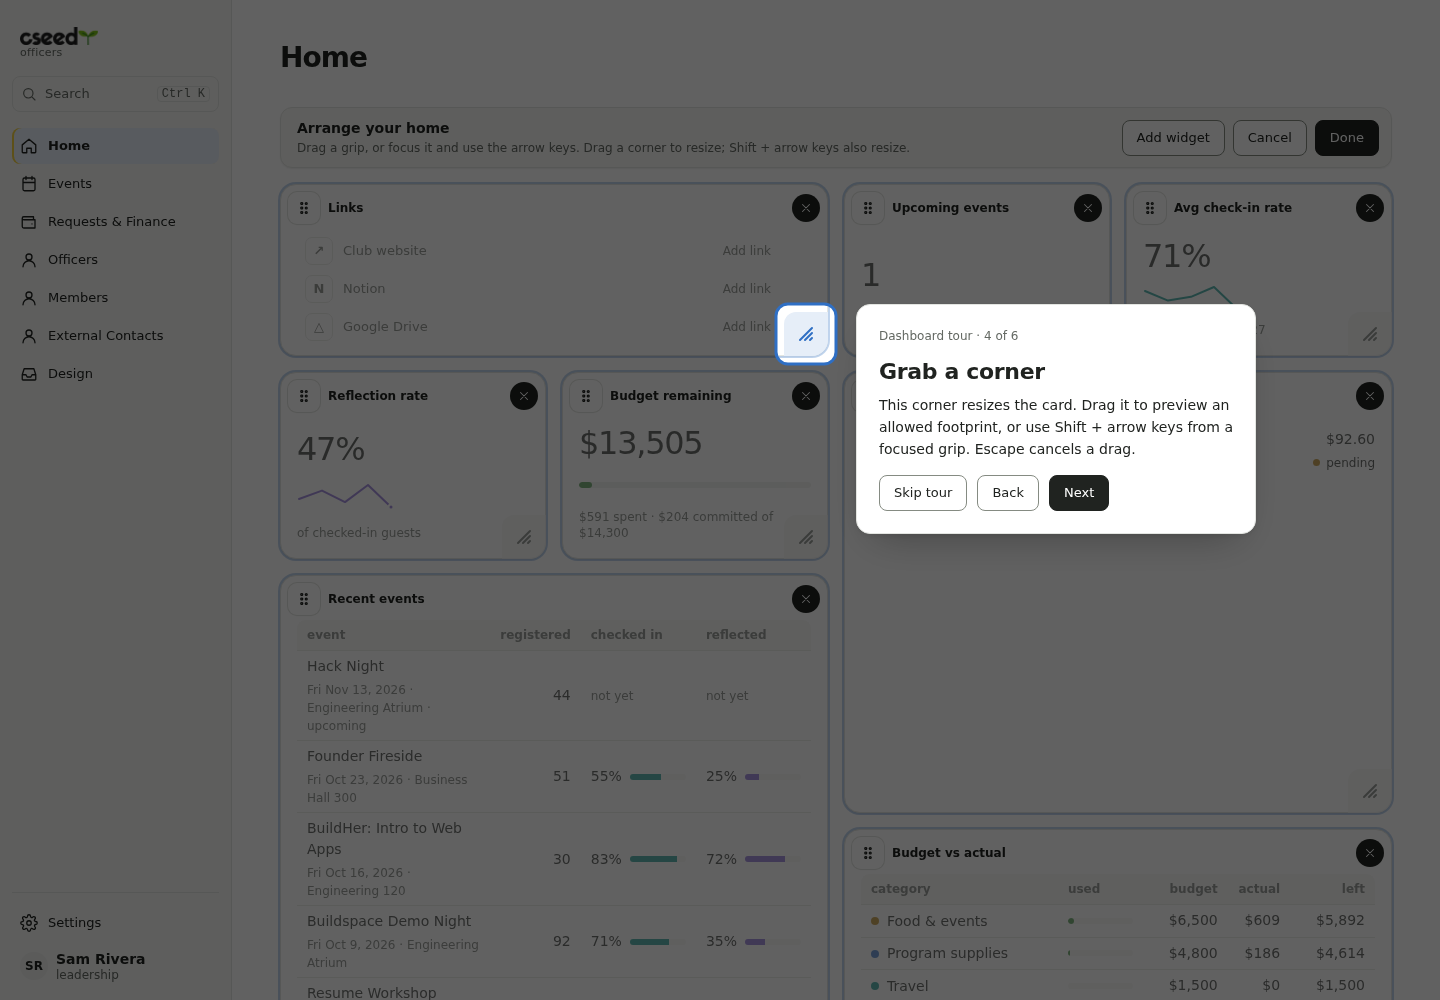
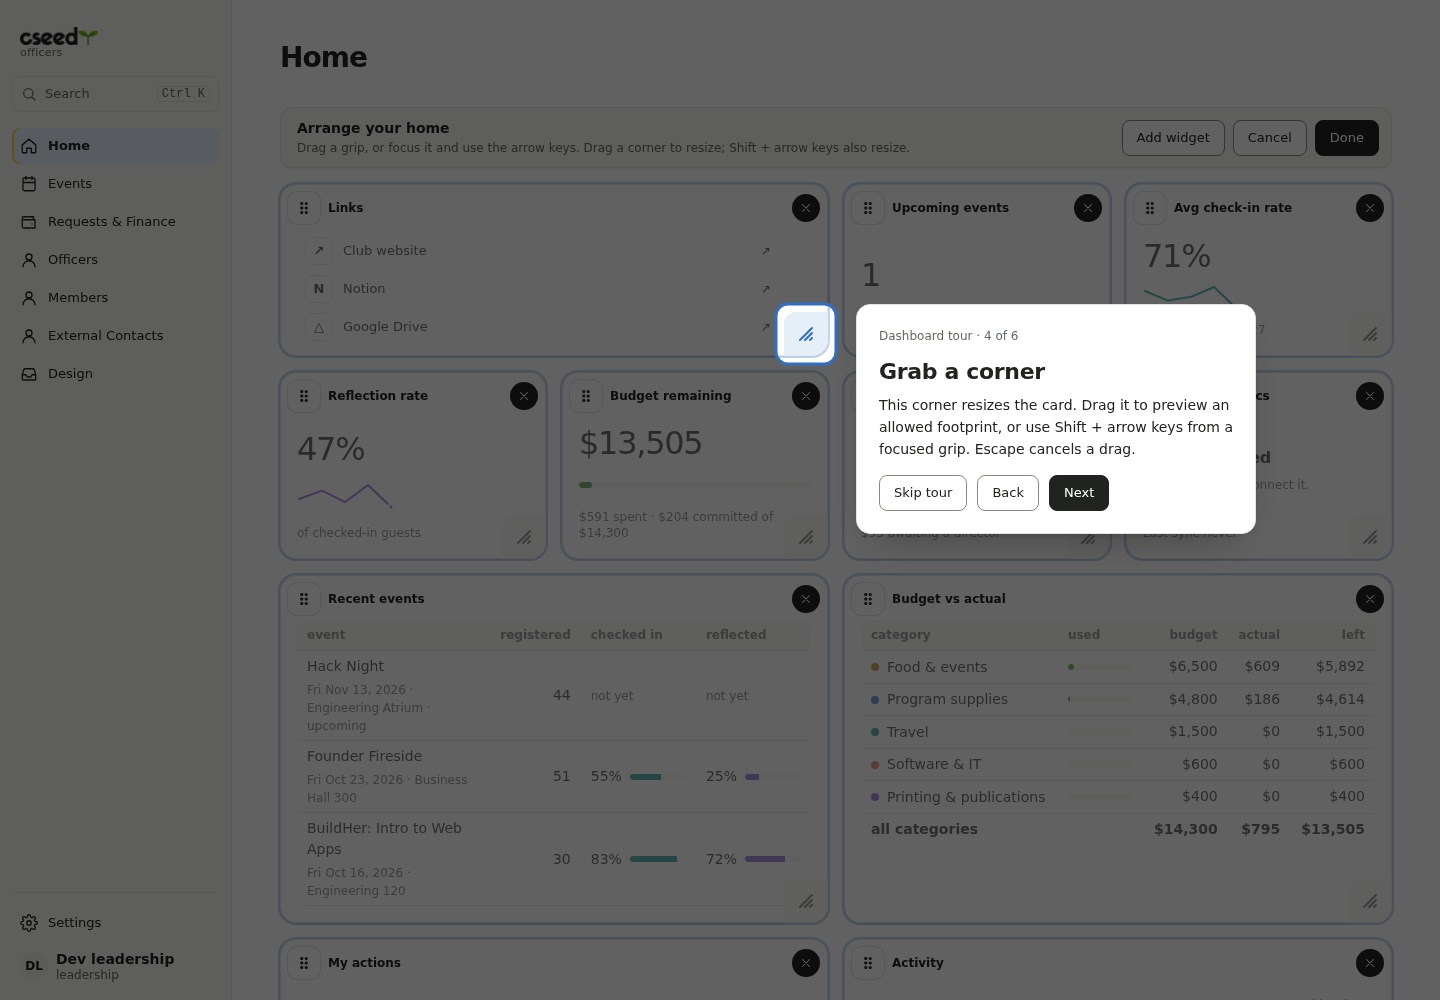
Reconcile onboarding and security, set club links and pack Home defaults

diff --git a/web/tests/home-grid.spec.ts b/web/tests/home-grid.spec.ts
@@ -317,7 +317,7 @@ test('Coachmarks spotlight real controls and discard their temporary edit previe
   expect(await savedLayout(page)).toEqual(before);
 });
 
-test('Leadership sees large Add link targets, configured links open in new tabs', async ({ page }) => {
+test('Leadership overrides club defaults; blank values restore the supplied URLs', async ({ page }) => {
   await devLogin(page, 'leadership');
   const settings = await (await page.request.get('/api/club/settings')).json();
   try {
@@ -327,7 +327,47 @@ test('Leadership sees large Add link targets, configured links open in new tabs'
     const site = links.getByRole('link', { name: /Club website/ });
     await expect(site).toHaveAttribute('href', 'https://example.org/club');
     await expect(site).toHaveAttribute('target', '_blank');
-    await expect(links.getByRole('link', { name: /Add link/ })).toHaveCount(2);
-    await expect(links.getByRole('link', { name: /Notion/ })).toHaveAttribute('href', '/settings#club-links');
+    await page.context().route('https://example.org/club', route => route.fulfill({ contentType: 'text/html', body: '<h1>Club destination</h1>' }));
+    const opened = page.waitForEvent('popup');
+    await site.click();
+    const destination = await opened;
+    await expect(destination).toHaveURL('https://example.org/club');
+    await expect(destination.getByRole('heading', { name: 'Club destination' })).toBeVisible();
+    await destination.close();
+    await expect(links.getByRole('link', { name: /Add link/ })).toHaveCount(0);
+    await expect(links.getByRole('link', { name: /Notion/ })).toHaveAttribute('href', 'https://app.notion.com/p/cseed/cseed-8c884a7f9dbe4bffa58718820e00cc10');
+    await expect(links.getByRole('link', { name: /Google Drive/ })).toHaveAttribute('href', 'https://drive.google.com/drive/folders/0ABwfOblCw9EvUk9PVA?dmr=1&ec=wgc-drive-hero-goto');
   } finally { await page.request.put('/api/club/settings', { data: settings }); }
+});
+
+
+test('Default widgets fill a complete rectangle without an oversized actions card', async ({ page }) => {
+  await openHome(page);
+  await expect(widget(page, 'my-action')).toHaveAttribute('data-size', '2x1');
+  await expect(widget(page, 'activity')).toHaveAttribute('data-size', '2x1');
+  await expect(widget(page, 'recent-events').locator('tbody tr')).toHaveCount(3);
+  const box = (await grid(page).boundingBox())!;
+  const rects = await grid(page).locator(':scope > li[data-widget]').evaluateAll(els => els.map(e => { const r = e.getBoundingClientRect(); return { x:r.x, y:r.y, right:r.right, bottom:r.bottom, area:r.width*r.height }; }));
+  const leftBottom = Math.max(...rects.filter(r => Math.abs(r.x-box.x)<2).map(r=>r.bottom));
+  const rightBottom = Math.max(...rects.filter(r => Math.abs(r.right-box.x-box.width)<2).map(r=>r.bottom));
+  expect(Math.abs(leftBottom-rightBottom)).toBeLessThan(2);
+  // Every row across the grid must be occupied, apart from the grid gap between cells.
+  const gap = await grid(page).evaluate(el => parseFloat(getComputedStyle(el).columnGap));
+  for(let y=box.y+2; y<box.y+box.height-2; y+=8) {
+    const row = rects.filter(r=>r.y<=y && r.bottom>=y).sort((a,b)=>a.x-b.x);
+    if (!row.length) continue;
+    expect(Math.abs(row[0]!.x-box.x)).toBeLessThan(2);
+    expect(Math.abs(row.at(-1)!.right-box.x-box.width)).toBeLessThan(2);
+    for(let i=1;i<row.length;i++) expect(row[i]!.x-row[i-1]!.right).toBeLessThanOrEqual(gap+2);
+  }
+});
+
+test('An onboarding landing starts the tour once, without forcing a replay', async ({ page }) => {
+  await page.request.put('/api/me/prefs', { data: { dashboardTutorialSeen: false } });
+  await page.goto('/?tutorial=onboarding');
+  await expect(page.getByRole('dialog', { name: 'Your home base' })).toBeVisible();
+  await page.getByRole('button', { name: 'Skip tour' }).click();
+  await page.goto('/?tutorial=onboarding');
+  await expect(page.getByRole('button', { name: 'Edit home' })).toBeEnabled();
+  await expect(page.locator('.dashboard-tour[open]')).toHaveCount(0);
 });

diff --git a/web/src/ui/views/HomeView.tsx b/web/src/ui/views/HomeView.tsx
@@ -84,7 +84,7 @@ export default function HomeView({ me }: { me: CurrentUser }) {
           case 'my-action':
             return (
               <Block id="my-action" title={director ? 'awaiting your approval' : 'my open requests'} action={<a href={href.newRequest()}>new request →</a>}>
-                <MyAction me={me} />
+                <MyAction me={me} limit={size === '2x1' ? 2 : 6} />
               </Block>
             );
           case 'recent-events':
@@ -97,7 +97,7 @@ export default function HomeView({ me }: { me: CurrentUser }) {
                         Events appear here once a Luma guest list is imported.
                       </Empty>
                     ) : (
-                      <DataTable rows={d.recentEvents.slice(0, 5)} columns={eventColumns(Date.now(), { compact: !wide(size) })} rowKey={(e) => e.id} caption="Recent events" dense />
+                      <DataTable rows={d.recentEvents.slice(0, wide(size) ? 5 : 3)} columns={eventColumns(Date.now(), { compact: !wide(size) })} rowKey={(e) => e.id} caption="Recent events" dense />
                     )
                   }
                 </Async>
@@ -112,7 +112,7 @@ export default function HomeView({ me }: { me: CurrentUser }) {
           case 'activity':
             return (
               <Block id="activity" title={director ? 'recent activity' : 'latest requests'} action={director ? <a href={href.admin('audit')}>audit log →</a> : <a href={href.requests({ scope: 'all' })}>all requests →</a>}>
-                {director ? <AuditFeed limit={size === '1x2' ? 5 : 8} /> : <RequestFeed limit={size === '1x2' ? 4 : 6} />}
+                {director ? <AuditFeed limit={size === '2x1' ? 2 : size === '1x2' ? 5 : 8} /> : <RequestFeed limit={size === '2x1' ? 2 : size === '1x2' ? 4 : 6} />}
               </Block>
             );
         }
@@ -146,13 +146,13 @@ function RequestList({ items, showRequester }: { items: PurchaseRequestListItem[
   );
 }
 
-function MyAction({ me }: { me: CurrentUser }) {
+function MyAction({ me, limit }: { me: CurrentUser; limit: number }) {
   const director = me.role !== 'officer';
-  const state = useApi('requestsList', { query: director ? { scope: 'all', status: 'pending', limit: 6 } : { scope: 'mine', limit: 50 } });
+  const state = useApi('requestsList', { query: director ? { scope: 'all', status: 'pending', limit } : { scope: 'mine', limit: 50 } });
   return (
     <Async state={state} loading={<Loading rows={3} label="Loading requests" />}>
       {(d) => {
-        const items = director ? d.items : d.items.filter((r) => OPEN.includes(r.status)).slice(0, 6);
+        const items = (director ? d.items : d.items.filter((r) => OPEN.includes(r.status))).slice(0, limit);
         if (!items.length)
           return director ? (
             <Empty title="Nothing to approve">New requests from officers land here.</Empty>
@@ -164,7 +164,7 @@ function MyAction({ me }: { me: CurrentUser }) {
         return (
           <>
             <RequestList items={items} showRequester={director} />
-            {director && d.items.length >= 6 && (
+            {director && d.items.length >= limit && (
               <p class="small">
                 <a href={href.requests({ scope: 'all', status: 'pending' })}>see every pending request →</a>
               </p>

diff --git a/web/tests/onboarding-v04.spec.ts b/web/tests/onboarding-v04.spec.ts
@@ -1,5 +1,5 @@
 import { expect, test, type Page } from '@playwright/test';
-import { devKeyParam, devLogin, openDialog, settle, watchErrors } from './helpers';
+import { devLogin, devSignIn, openDialog, settle, watchErrors } from './helpers';
 
 /**
  * V0.4 onboarding: the server gate, the correction loop (invitee → inviter edits → Confirm
@@ -27,7 +27,7 @@ async function signOut(page: Page) {
 }
 
 async function signInAs(page: Page, id: string) {
-  await page.goto(`/auth/dev?discord=${id}${devKeyParam}`);
+  await devSignIn(page, { discord: id });
   await expect(page).toHaveURL(/\/onboarding$/);
   await settle(page);
 }
@@ -138,8 +138,12 @@ test('gate, correction, inviter edit, history and finish', async ({ page, browse
   await expect(page.locator('[data-summary]')).toContainText('Phone and birthday saved');
   // After setup, Back leaves for Home instead of replaying the steps.
   await page.goBack();
-  await expect(page).toHaveURL(/\/$/);
+  await expect(page).toHaveURL(/\/\?tutorial=onboarding$/);
   await settle(page);
+  await expect(page.getByRole('dialog', { name: 'Your home base' })).toBeVisible();
+  await page.getByRole('button', { name: 'Skip tour' }).click();
+  await page.reload();
+  await expect(page.locator('.dashboard-tour[open]')).toHaveCount(0);
   expect((await page.request.get('/api/events')).status()).toBe(200);
   expect(errors.filter((e) => !/\/api\/events → 403$/.test(e))).toEqual([]);
 });
@@ -178,4 +182,25 @@ test('an invite link in a browser where someone else is signed in', async ({ pag
   await expect(page.locator('[data-login]')).toBeVisible();
   await expect(page.locator('[data-invite-note]')).toBeVisible();
   expect((await page.request.get('/api/me')).status()).toBe(401);
+});
+
+test('final Done lands on Home and starts the dashboard tour once', async ({ page }) => {
+  const id = discordId();
+  await inviteAsDirector(page, 'Tour merge check', id);
+  await signInAs(page, id);
+  const profile = await page.request.put('/api/me/profile', { data: { phone: '+1 206 555 0199', birthday: '11-03' } });
+  expect(profile.ok()).toBe(true);
+  expect((await page.request.put('/api/me/onboarding', { data: { step: 5 } })).ok()).toBe(true);
+  await page.goto('/onboarding');
+  await expect(page.locator('.onb[data-step="5"]')).toBeVisible();
+  await next(page).click();
+  await expect(page.locator('[data-summary]')).toBeVisible();
+  await next(page).click();
+  await expect(page).toHaveURL(/\/\?tutorial=onboarding$/);
+  await expect(page.getByRole('dialog', { name: 'Your home base' })).toBeVisible();
+  await page.getByRole('button', { name: 'Skip tour' }).click();
+  expect((await (await page.request.get('/api/me/prefs')).json()).dashboardTutorialSeen).toBe(true);
+  await page.reload();
+  await expect(page.getByRole('button', { name: 'Edit home' })).toBeEnabled();
+  await expect(page.locator('.dashboard-tour[open]')).toHaveCount(0);
 });

diff --git a/web/src/ui/widgets/registry.ts b/web/src/ui/widgets/registry.ts
@@ -21,10 +21,10 @@ export const widgetRegistry: WidgetDef[] = [
   { id: 'kpi-reflection', title: 'Reflection rate', sizes: ['1x1', '2x1'], size: '1x1', group: 'kpis' },
   { id: 'kpi-budget', title: 'Budget remaining', sizes: ['1x1', '2x1'], size: '1x1', group: 'kpis' },
   { id: 'kpi-pending', title: 'Pending requests', sizes: ['1x1', '2x1'], size: '1x1', group: 'kpis' },
-  { id: 'my-action', title: 'My actions', sizes: ['2x2', '4x2'], size: '2x2' },
+  { id: 'my-action', title: 'My actions', sizes: ['2x1', '2x2', '4x2'], size: '2x1' },
   { id: 'recent-events', title: 'Recent events', sizes: ['2x2', '4x2'], size: '2x2' },
   { id: 'budget', title: 'Budget vs actual', sizes: ['2x2', '4x2'], size: '2x2' },
-  { id: 'activity', title: 'Activity', sizes: ['1x2', '2x2', '4x2'], size: '1x2' },
+  { id: 'activity', title: 'Activity', sizes: ['2x1', '1x2', '2x2', '4x2'], size: '2x1' },
   { id: 'web-analytics', title: 'Web Analytics', sizes: ['1x1', '2x2', '4x2'], size: '1x1' },
   { id: 'traffic-security', title: 'Traffic & security', sizes: ['1x1', '2x2'], size: '1x1' },
   { id: 'performance', title: 'Performance', sizes: ['1x1', '2x2'], size: '1x1' },
@@ -36,19 +36,19 @@ export const widgetRegistry: WidgetDef[] = [
 export const KPI_GROUP_ID = 'kpis';
 export const kpiIds = widgetRegistry.filter((w) => w.group === 'kpis').map((w) => w.id);
 
-/** Compact defaults; pairs up cleanly on two columns. */
+/** Twenty blocks: a complete 4×5 rectangle, or ten full rows on phone. */
 export const defaultWidgetLayout: { id: string; size: BlockSize }[] = [
   { id: 'links', size: '2x1' },
   { id: 'kpi-upcoming', size: '1x1' },
   { id: 'kpi-checkin', size: '1x1' },
   { id: 'kpi-reflection', size: '1x1' },
   { id: 'kpi-budget', size: '1x1' },
-  { id: 'my-action', size: '2x2' },
-  { id: 'recent-events', size: '2x2' },
-  { id: 'budget', size: '2x2' },
-  { id: 'activity', size: '1x2' },
   { id: 'kpi-pending', size: '1x1' },
   { id: 'web-analytics', size: '1x1' },
+  { id: 'recent-events', size: '2x2' },
+  { id: 'budget', size: '2x2' },
+  { id: 'my-action', size: '2x1' },
+  { id: 'activity', size: '2x1' },
 ];
 
 export const widgetDef = (id: string) => widgetRegistry.find((w) => w.id === id);

diff --git a/web/src/ui/views/ClubLinksPanel.tsx b/web/src/ui/views/ClubLinksPanel.tsx
@@ -21,7 +21,7 @@ export function ClubLinksPanel({ me }: { me: CurrentUser }) {
     } catch (e) { setError((e as Error).message); } finally { setBusy(false); }
   }
   return <Section title="club links" id="club-links">
-    <p class="small muted">Shared on everyone’s Links widget. Leadership manages these URLs.</p>
+    <p class="small muted">Shared on everyone’s Links widget. Leadership manages these URLs. Leave a field blank to restore its club default.</p>
     {error && <p role="alert">{error} <button class="btn" onClick={load}>Retry</button></p>}
     {settings && (me.role === 'leadership' || me.isOwner ? <form class="form" onSubmit={save}>
       {([['websiteUrl', 'Club website'], ['notionUrl', 'Notion'], ['driveUrl', 'Google Drive']] as const).map(([key, label]) => <label class="field" key={key}>{label}<input class="input" type="url" placeholder="https://… (optional)" value={settings[key]} maxLength={2048} disabled={busy} onInput={e => setSettings({ ...settings, [key]: e.currentTarget.value })} /></label>)}

diff --git a/web/src/ui/widgets/DashboardTutorial.tsx b/web/src/ui/widgets/DashboardTutorial.tsx
@@ -26,7 +26,7 @@ export default function DashboardTutorial({ onPreview }: { onPreview: (editing: 
 
   useEffect(() => {
     let alive = true;
-    const replay = new URLSearchParams(location.search).has('tutorial');
+    const replay = new URLSearchParams(location.search).get('tutorial') === '1';
     api('prefsGet').then(p => { if (alive && (replay || !p.dashboardTutorialSeen)) setActive(true); }).catch(() => {});
     return () => { alive = false; };
   }, []);

diff --git a/web/src/ui/pages/OnboardingPage.tsx b/web/src/ui/pages/OnboardingPage.tsx
@@ -180,7 +180,7 @@ export default function OnboardingPage() {
     const onPop = async (e: PopStateEvent) => {
       // After setup is done, Back leaves for Home instead of replaying the steps.
       if (done.current) {
-        location.replace('/');
+        location.replace('/?tutorial=onboarding');
         return;
       }
       if (restoring.current) {

diff --git a/server/internal/api/home_grid_test.go b/server/internal/api/home_grid_test.go
@@ -1,6 +1,7 @@
 package api
 
 import (
+	"officerdashboard/internal/store"
 	"strings"
 	"testing"
 )
@@ -48,6 +49,10 @@ func TestDashboardTutorialAndLinks(t *testing.T) {
 	if !strings.Contains(string(other.Raw), `"dashboardTutorialSeen":false`) {
 		t.Fatal("tutorial status leaked", string(other.Raw))
 	}
+	defaults := e.mustOK(e.get("/api/club/settings", e.officer()))
+	if defaults.str("websiteUrl") != store.DefaultWebsiteURL || defaults.str("notionUrl") != store.DefaultNotionURL || defaults.str("driveUrl") != store.DefaultDriveURL {
+		t.Fatal("missing club defaults", string(defaults.Raw))
+	}
 	body := map[string]any{"clubTimezone": "UTC", "location": "Club", "websiteUrl": "https://example.org/club", "notionUrl": "", "driveUrl": ""}
 	expectStatus(t, "officer cannot change links", e.do("PUT", "/api/club/settings", body, e.officer()), 403)
 	e.mustOK(e.do("PUT", "/api/club/settings", body, e.as("user-leadership")))
@@ -55,6 +60,14 @@ func TestDashboardTutorialAndLinks(t *testing.T) {
 	links := e.mustOK(e.get("/api/club/settings", e.officer()))
 	if links.str("websiteUrl") != "https://example.org/club" {
 		t.Fatal("timezone update erased links", string(links.Raw))
+	}
+	if links.str("notionUrl") != store.DefaultNotionURL || links.str("driveUrl") != store.DefaultDriveURL {
+		t.Fatal("blank links must use defaults", string(links.Raw))
+	}
+	body["websiteUrl"] = ""
+	reset := e.mustOK(e.do("PUT", "/api/club/settings", body, e.as("user-leadership")))
+	if reset.str("websiteUrl") != store.DefaultWebsiteURL {
+		t.Fatal("clear must restore default", string(reset.Raw))
 	}
 	for _, bad := range []string{"javascript:alert(1)", "/relative", "https://user:pass@example.org", "https:///missing-host"} {
 		body["websiteUrl"] = bad

diff --git a/server/internal/store/timezones.go b/server/internal/store/timezones.go
@@ -9,6 +9,10 @@ import (
 
 const DefaultTimezone = "America/Los_Angeles"
 
+const DefaultWebsiteURL = "https://cseed.co"
+const DefaultNotionURL = "https://app.notion.com/p/cseed/cseed-8c884a7f9dbe4bffa58718820e00cc10"
+const DefaultDriveURL = "https://drive.google.com/drive/folders/0ABwfOblCw9EvUk9PVA?dmr=1&ec=wgc-drive-hero-goto"
+
 type ClubSettings struct {
 	WebsiteURL   string `json:"websiteUrl"`
 	NotionURL    string `json:"notionUrl"`
@@ -16,6 +20,21 @@ type ClubSettings struct {
 	ClubTimezone string `json:"clubTimezone"`
 	Location     string `json:"location"`
 }
+
+// Blank settings use the club-supplied defaults; leadership can replace each URL.
+func (s ClubSettings) WithDefaultLinks() ClubSettings {
+	if s.WebsiteURL == "" {
+		s.WebsiteURL = DefaultWebsiteURL
+	}
+	if s.NotionURL == "" {
+		s.NotionURL = DefaultNotionURL
+	}
+	if s.DriveURL == "" {
+		s.DriveURL = DefaultDriveURL
+	}
+	return s
+}
+
 type TimezonePref struct {
 	Mode string `json:"timezoneMode"`
 	Zone string `json:"timezone"`
@@ -24,7 +43,7 @@ type TimezonePref struct {
 func (q *Queries) ClubSettings(ctx context.Context) (ClubSettings, error) {
 	var s ClubSettings
 	err := q.q.QueryRowContext(ctx, `SELECT club_timezone,location,website_url,notion_url,drive_url FROM club_settings WHERE id=1`).Scan(&s.ClubTimezone, &s.Location, &s.WebsiteURL, &s.NotionURL, &s.DriveURL)
-	return s, err
+	return s.WithDefaultLinks(), err
 }
 func (q *Queries) SaveClubSettings(ctx context.Context, s ClubSettings) error {
 	return q.Exec(ctx, `UPDATE club_settings SET club_timezone=?,location=?,website_url=?,notion_url=?,drive_url=? WHERE id=1`, s.ClubTimezone, s.Location, s.WebsiteURL, s.NotionURL, s.DriveURL)

diff --git a/server/internal/api/preferences.go b/server/internal/api/preferences.go
@@ -15,9 +15,16 @@ import (
 // Sizes are W×H Home grid blocks; the Links default uses a compact two-block footprint.
 var defaultWidgets = []store.WidgetPlacement{
 	{ID: "links", Size: "2x1"},
-	{ID: "kpi-upcoming", Size: "1x1"}, {ID: "kpi-checkin", Size: "1x1"}, {ID: "kpi-reflection", Size: "1x1"}, {ID: "kpi-budget", Size: "1x1"},
-	{ID: "my-action", Size: "2x2"}, {ID: "recent-events", Size: "2x2"},
-	{ID: "budget", Size: "2x2"}, {ID: "activity", Size: "1x2"}, {ID: "kpi-pending", Size: "1x1"}, {ID: "web-analytics", Size: "1x1"},
+	{ID: "kpi-upcoming", Size: "1x1"},
+	{ID: "kpi-checkin", Size: "1x1"},
+	{ID: "kpi-reflection", Size: "1x1"},
+	{ID: "kpi-budget", Size: "1x1"},
+	{ID: "kpi-pending", Size: "1x1"},
+	{ID: "web-analytics", Size: "1x1"},
+	{ID: "recent-events", Size: "2x2"},
+	{ID: "budget", Size: "2x2"},
+	{ID: "my-action", Size: "2x1"},
+	{ID: "activity", Size: "2x1"},
 }
 
 // widgetSizes lists V0.4 block sizes, then the V0.3 S/M/L sizes. Layouts saved before V0.4 keep

diff --git a/server/internal/api/timezones.go b/server/internal/api/timezones.go
@@ -72,6 +72,7 @@ func (c *Ctx) clubSettingsPut() error {
 		if drive.Set {
 			s.DriveURL = drive.V
 		}
+		s = s.WithDefaultLinks()
 		if err = q.SaveClubSettings(ctx, s); err != nil {
 			return err
 		}

diff --git a/docs/evidence/dashboard-ux/README.md b/docs/evidence/dashboard-ux/README.md
@@ -1,6 +1,6 @@
 # Dashboard arrangement draft
 
-Refreshed after PR #44 review, November 3, 2026, using a disposable seeded backend and a leadership account. The club URLs remain unset so the leadership Add link rows are visible.
+Refreshed for merge prep after PRs #42 and #43, November 3, 2026. Captured from the built app served by Go with its production CSP, using a disposable seeded database and leadership account. Website, Notion and Drive use the user-supplied club defaults; leadership can override them in Settings or clear a field to restore the default.
 
 | State | Desktop light | Desktop dark | Phone light | Phone dark |
 | --- | --- | --- | --- | --- |
@@ -8,6 +8,8 @@ Refreshed after PR #44 review, November 3, 2026, using a disposable seeded backe
 | Edit | [1440](edit-1440-light.png) | [1440](edit-1440-dark.png) | [390](edit-390-light.png) | [390](edit-390-dark.png) |
 | Resize coachmark | [1440](tutorial-resize-1440-light.png) | [1440](tutorial-resize-1440-dark.png) | [390](tutorial-resize-390-light.png) | [390](tutorial-resize-390-dark.png) |
 
-The resize coachmark captures step 4 with a transparent cutout around the actual resize handle and temporary edit mode. The capture script verified cutout coordinates against that handle and verified that reduced motion disables the tour transitions.
+Defaults fill twenty logical blocks: a complete 4×5 rectangle on desktop, with full-width rows and paired stats on phones. Actions and activity use compact 2×1 cards with two preview items. Standard recent events shows three items; a wide card shows five.
 
-The Playwright home-grid spec covers pointer and keyboard movement/resizing, target size labels, save/cancel, legacy migration, compact Links row geometry, leadership link actions, every coachmark target, tutorial replay, and restoration of the original layout after temporary preview. Real touch-device ergonomics and sustained 60fps profiling remain unverified.
+The resize coachmark captures step 4 with a transparent cutout around the actual resize handle and temporary edit mode. Capture verifies production CSP headers, no CSP console errors, cutout coordinates, and disabled transitions under reduced motion.
+
+Playwright covers pointer/keyboard move and resize, target size labels, save/cancel, legacy migration, row geometry, club default overrides, external new-tab navigation, rectangular packing, coachmark targets and restoration, Settings replay, and once-only tutorial behaviour after both onboarding Done and Back. Real touch-device ergonomics and sustained 60fps profiling remain unverified.
